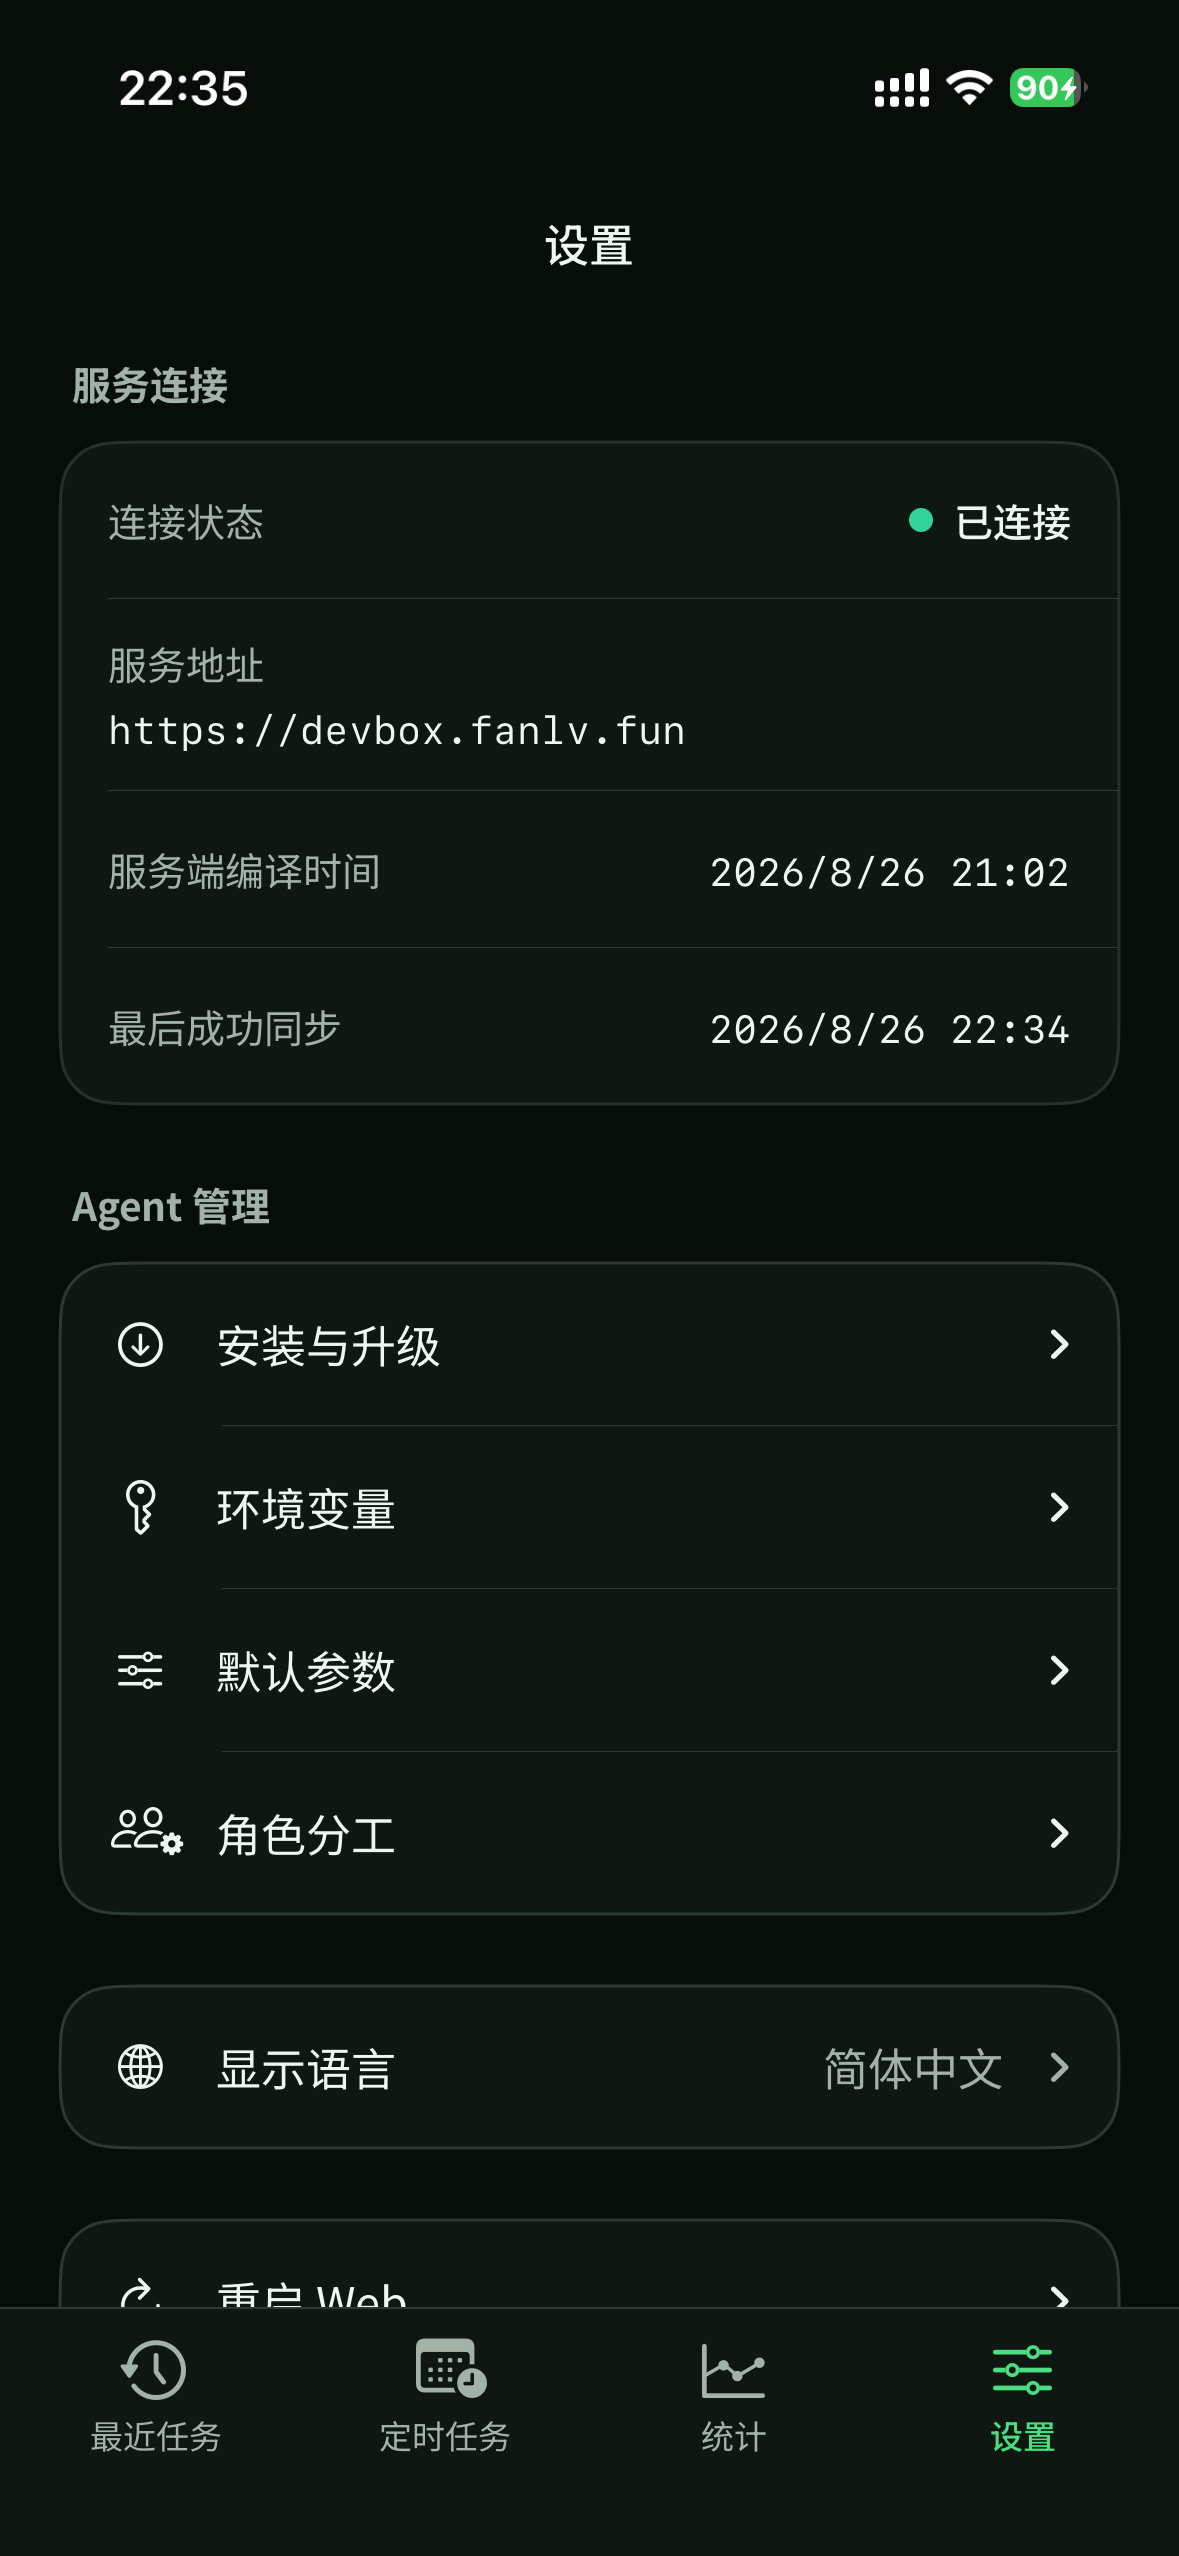
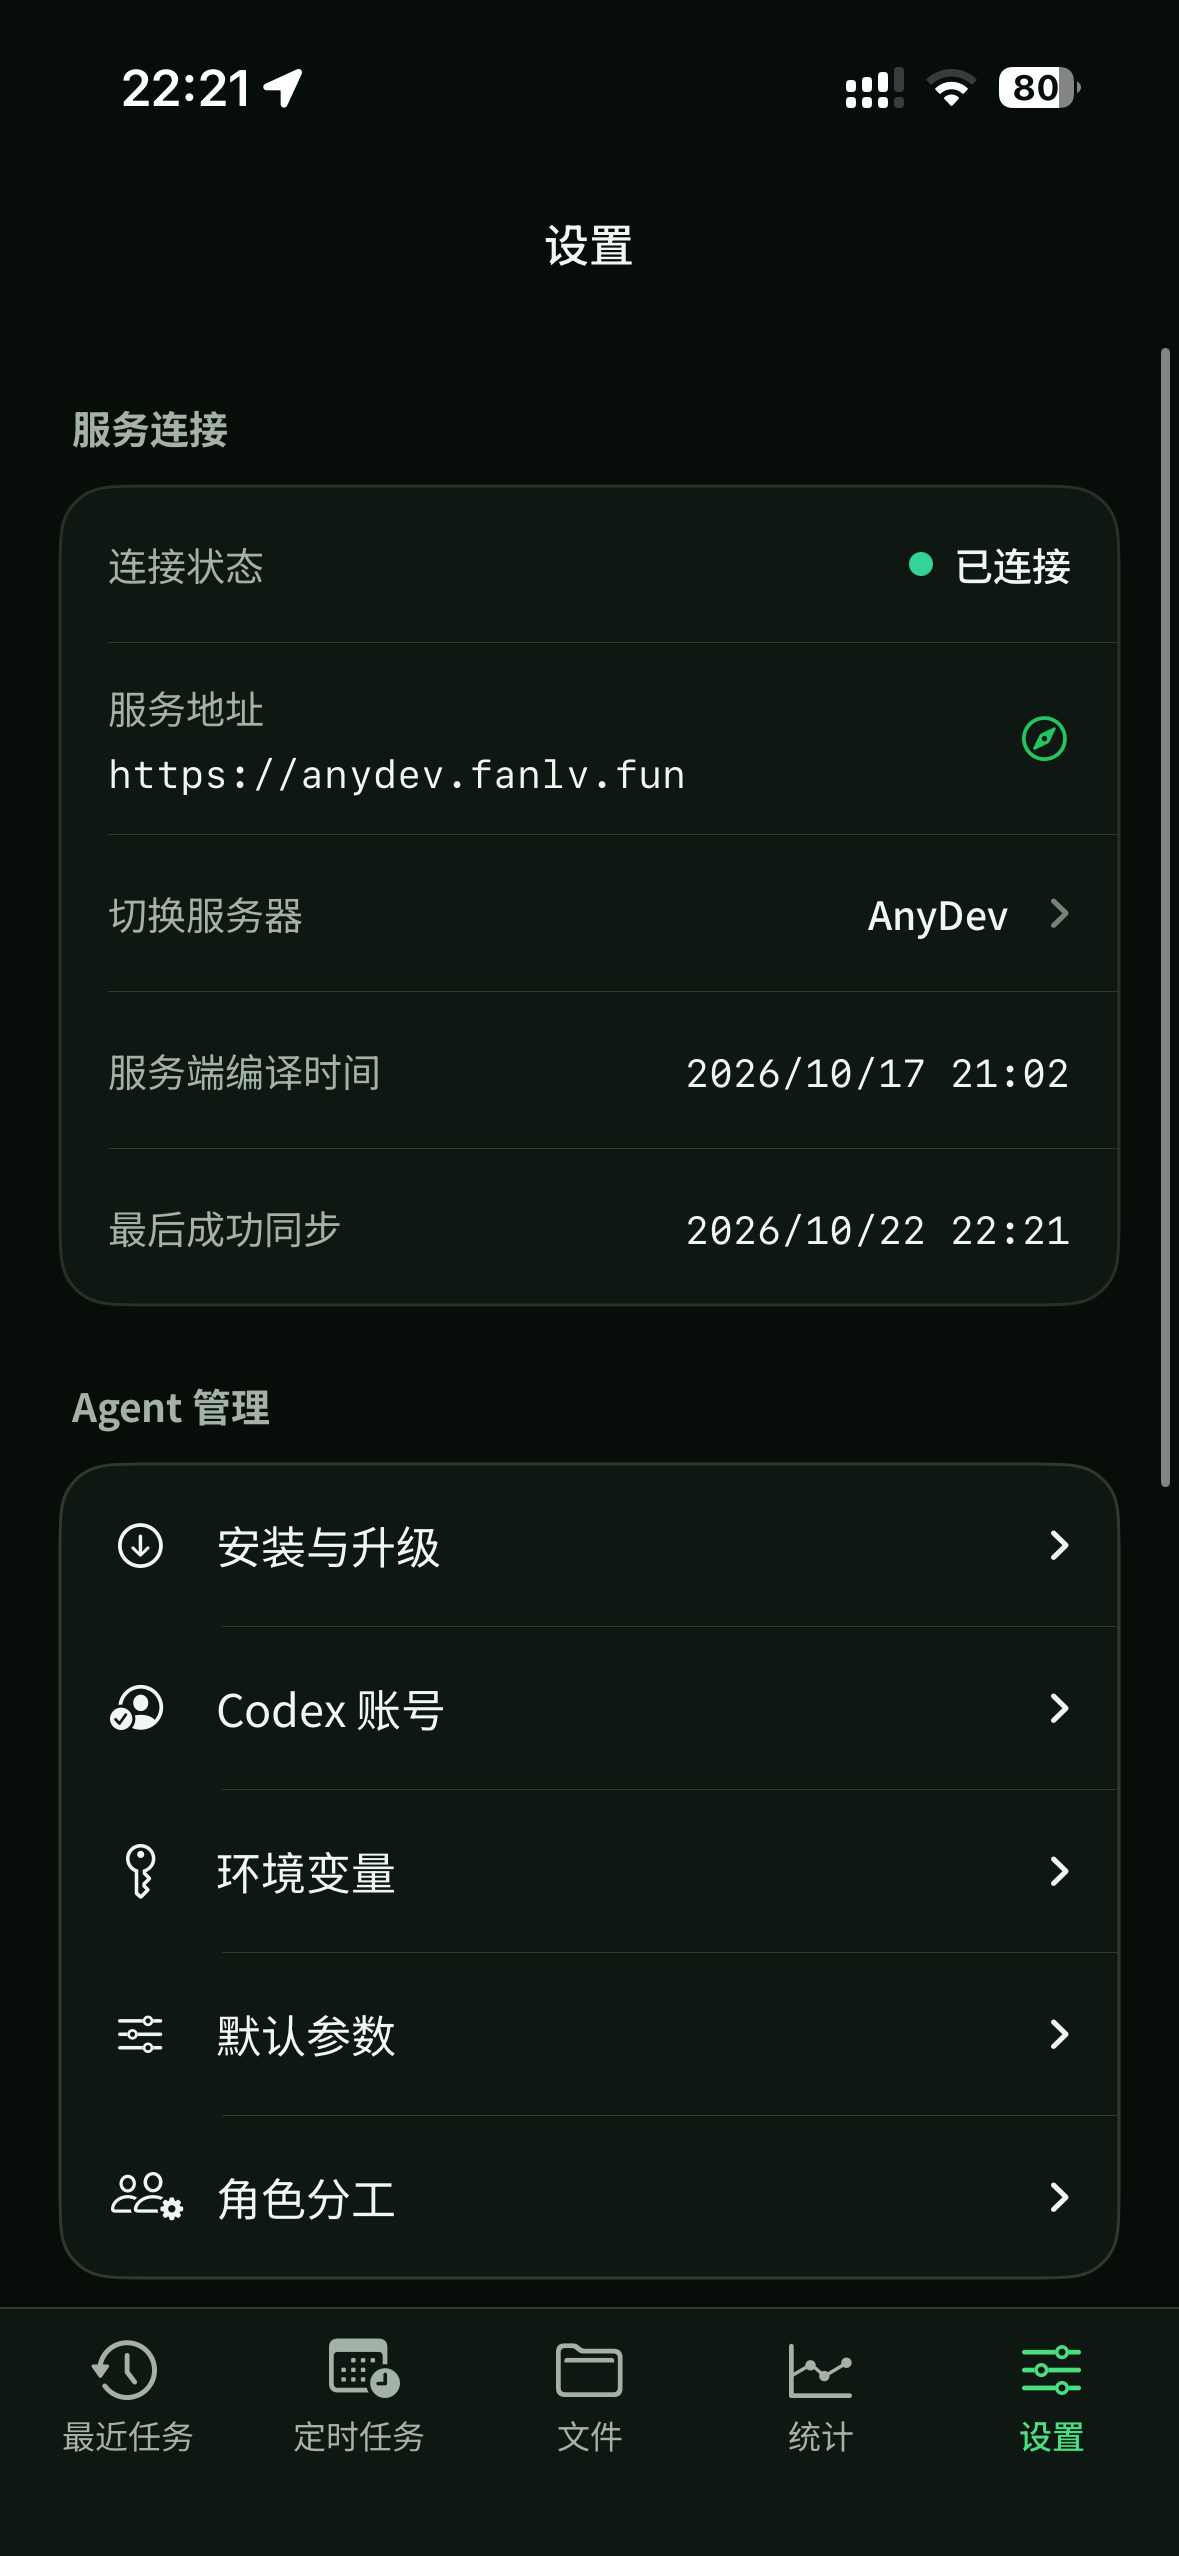
docs: refresh iOS screenshots in README

diff --git a/README.zh-CN.md b/README.zh-CN.md
@@ -69,15 +69,19 @@ Quartet 面向在个人电脑或其他受控环境中运行的可信共享实例
 
 | 最近任务 | 新任务 |
 |---|---|
-| ![Sophia 最近任务列表](./docs/images/ios-recent-tasks.png) | ![Sophia 新任务面板](./docs/images/ios-new-task-composer.png) |
+| ![Sophia 最近任务列表](./docs/images/ios-recent-tasks.jpg) | ![Sophia 新任务面板](./docs/images/ios-new-task-composer.png) |
 
 | Agent 对话 | 定时任务 |
 |---|---|
-| ![Sophia Agent 对话与实时工具调用](./docs/images/ios-agent-conversation.png) | ![Sophia 定时任务列表](./docs/images/ios-scheduled-tasks.png) |
+| ![Sophia Agent 对话与实时工具调用](./docs/images/ios-agent-conversation.png) | ![Sophia 定时任务列表](./docs/images/ios-scheduled-tasks.jpg) |
 
-| 用量统计 | 设置 |
+| 文件浏览 | 设置 |
 |---|---|
-| ![Sophia 用量统计](./docs/images/ios-usage-statistics.png) | ![Sophia 设置](./docs/images/ios-settings.png) |
+| ![Sophia 工作区文件浏览](./docs/images/ios-files.jpg) | ![Sophia 设置](./docs/images/ios-settings.png) |
+
+| 用量统计 | 每日 Token 明细 |
+|---|---|
+| ![Sophia 用量统计](./docs/images/ios-usage-statistics.jpg) | ![Sophia 每日 Token 明细](./docs/images/ios-usage-daily-token.png) |
 
 ## Graph Workflow
 

diff --git a/README.md b/README.md
@@ -84,15 +84,19 @@ release.
 
 | Recent tasks | New task |
 |---|---|
-| ![Sophia recent tasks list](./docs/images/ios-recent-tasks.png) | ![Sophia new task composer](./docs/images/ios-new-task-composer.png) |
+| ![Sophia recent tasks list](./docs/images/ios-recent-tasks.jpg) | ![Sophia new task composer](./docs/images/ios-new-task-composer.png) |
 
 | Agent conversation | Scheduled tasks |
 |---|---|
-| ![Sophia agent conversation with streamed tool activity](./docs/images/ios-agent-conversation.png) | ![Sophia scheduled tasks list](./docs/images/ios-scheduled-tasks.png) |
+| ![Sophia agent conversation with streamed tool activity](./docs/images/ios-agent-conversation.png) | ![Sophia scheduled tasks list](./docs/images/ios-scheduled-tasks.jpg) |
 
-| Usage statistics | Settings |
+| Files | Settings |
 |---|---|
-| ![Sophia usage statistics](./docs/images/ios-usage-statistics.png) | ![Sophia settings](./docs/images/ios-settings.png) |
+| ![Sophia workspace file browser](./docs/images/ios-files.jpg) | ![Sophia settings](./docs/images/ios-settings.png) |
+
+| Usage statistics | Daily token details |
+|---|---|
+| ![Sophia usage statistics](./docs/images/ios-usage-statistics.jpg) | ![Sophia daily token details](./docs/images/ios-usage-daily-token.png) |
 
 ## Graph Workflows
 
